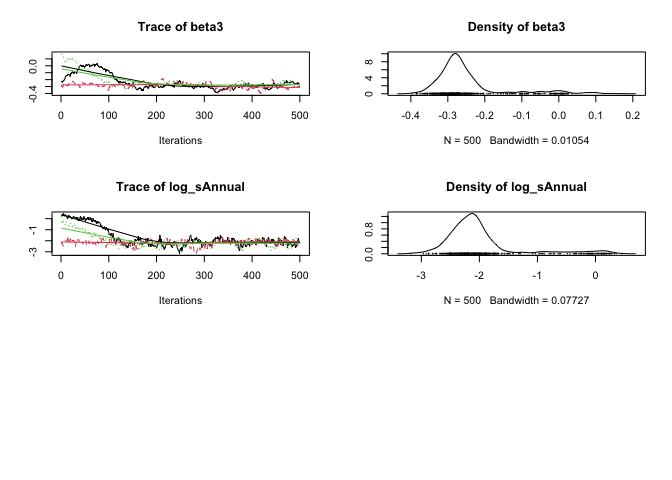
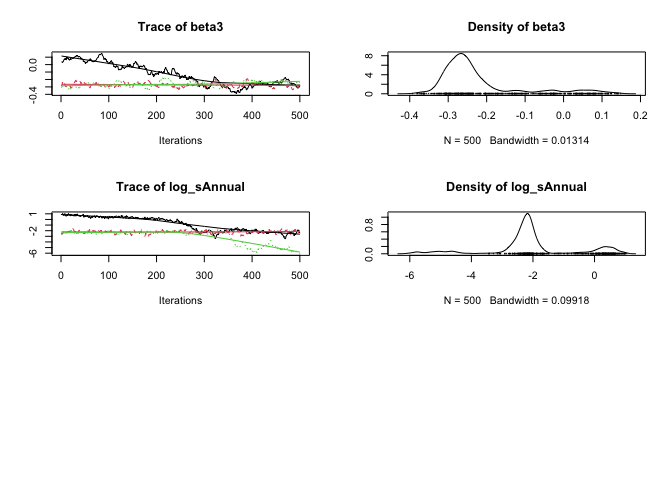
update badges

diff --git a/README.md b/README.md
@@ -1,15 +1,16 @@
 
 <!-- README.md is generated from README.Rmd. Please edit that file -->
+<!-- badges: start -->
 
 [![Lifecycle:
 stable](https://img.shields.io/badge/lifecycle-stable-brightgreen.svg)](https://lifecycle.r-lib.org/articles/stages.html#stable)
-[![R build
-status](https://github.com/poissonconsulting/jmbr/workflows/R-CMD-check/badge.svg)](https://github.com/poissonconsulting/jmbr/actions)
+[![R-CMD-check](https://github.com/poissonconsulting/jmbr/workflows/R-CMD-check/badge.svg)](https://github.com/poissonconsulting/jmbr/actions)
 [![Codecov test
 coverage](https://codecov.io/gh/poissonconsulting/jmbr/branch/master/graph/badge.svg)](https://codecov.io/gh/poissonconsulting/jmbr?branch=master)
 [![License:
 MIT](https://img.shields.io/badge/License-MIT-blue.svg)](https://opensource.org/licenses/MIT)
 [![DOI](https://zenodo.org/badge/DOI/10.5281/zenodo.1162355.svg)](https://doi.org/10.5281/zenodo.1162355)
+<!-- badges: end -->
 
 # jmbr
 
@@ -73,23 +74,23 @@ analysis <- analyse(model, data = data)
 #> # A tibble: 1 x 8
 #>       n     K nchains niters nthin   ess  rhat converged
 #>   <int> <int>   <int>  <int> <int> <int> <dbl> <lgl>    
-#> 1    40     5       3    500     1    10  5.70 FALSE
+#> 1    40     5       3    500     1    21  9.79 FALSE
 analysis <- reanalyse(analysis)
 #> # A tibble: 1 x 8
 #>       n     K nchains niters nthin   ess  rhat converged
 #>   <int> <int>   <int>  <int> <int> <int> <dbl> <lgl>    
-#> 1    40     5       3    500     2    24  1.25 FALSE
+#> 1    40     5       3    500     2    56  4.24 FALSE
 
 coef(analysis)
 #> Warning: The `simplify` argument of `coef()` must be TRUE as of mcmcr 0.4.1.
 #> # A tibble: 5 x 7
-#>   term        estimate     sd  zscore   lower  upper   pvalue
-#>   <term>         <dbl>  <dbl>   <dbl>   <dbl>  <dbl>    <dbl>
-#> 1 alpha         4.25   0.235  17.8     3.28   4.33   0.000666
-#> 2 beta1         1.20   0.294   3.78    0.122  1.35   0.000666
-#> 3 beta2        -0.0124 0.0854  0.0842 -0.0737 0.316  0.707   
-#> 4 beta3        -0.274  0.0926 -2.71   -0.355  0.0213 0.0819  
-#> 5 log_sAnnual  -2.14   0.641  -3.12   -2.80   0.0571 0.0606
+#>   term        estimate     sd zscore   lower  upper   pvalue
+#>   <term>         <dbl>  <dbl>  <dbl>   <dbl>  <dbl>    <dbl>
+#> 1 alpha         4.25   0.453   9.02   2.66   4.34   0.000666
+#> 2 beta1         1.17   0.426   2.33  -0.0941 1.32   0.134   
+#> 3 beta2        -0.0262 0.0642 -0.623 -0.228  0.0356 0.458   
+#> 4 beta3        -0.258  0.108  -2.06  -0.334  0.0819 0.162   
+#> 5 log_sAnnual  -2.18   1.39   -1.48  -5.38   0.668  0.280
 
 plot(analysis)
 ```
